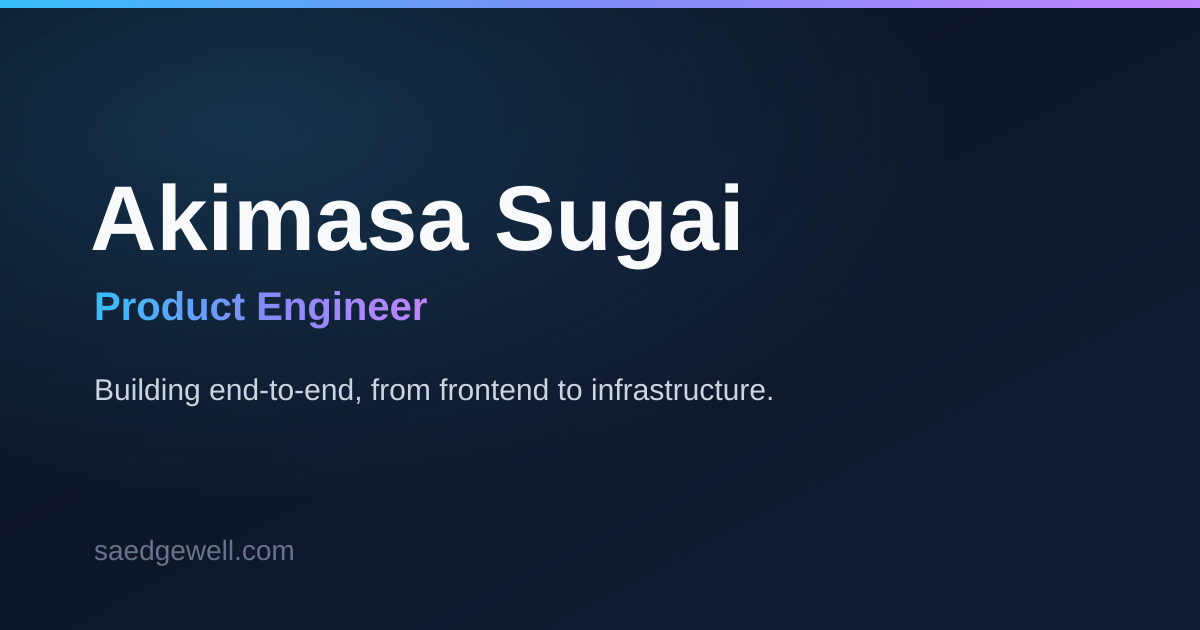
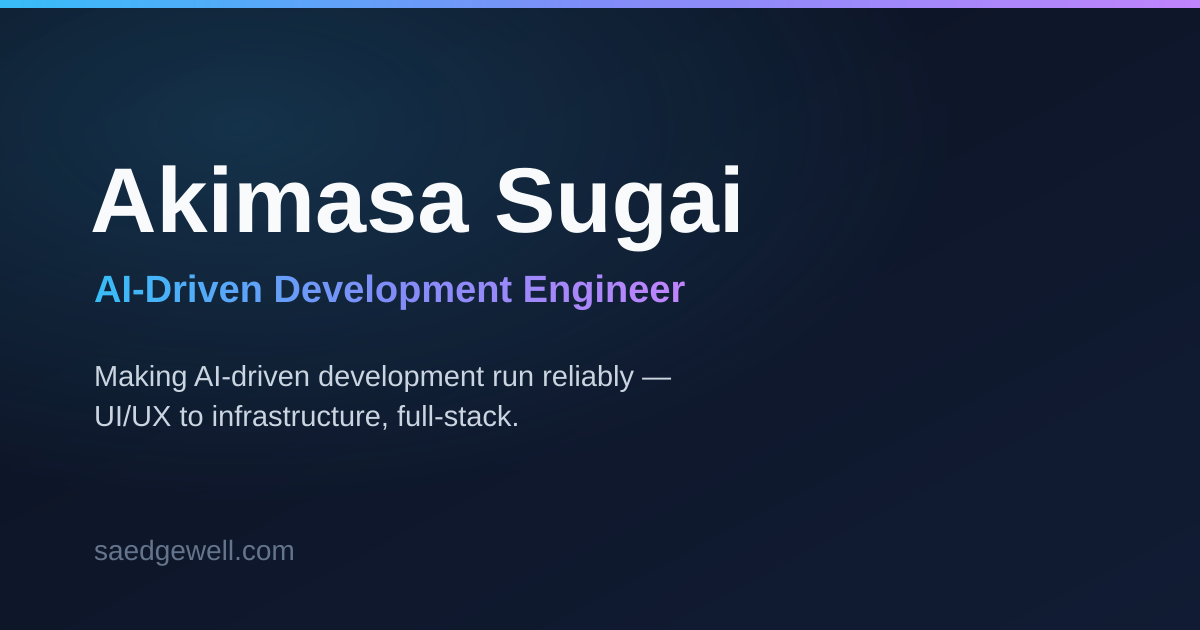
キャッチフレーズをAI駆動開発軸へ刷新（方向A）
- Hero見出し「AIと共に、止まらない開発を。」＋AI-DLC/UI-UX/フルスタックを示すサブタイトルに変更(ja/en)
- 肩書きを Product Engineer → AI-Driven Development Engineer に変更
  (profile.role / JSON-LD jobTitle / about表示)
- profile.headline・aboutメタ・metaキーワードをAI駆動開発軸に更新
- OG画像を新ポジションに合わせて再生成

Changed region(s): [[0.0617, 0.2413, 0.6167, 0.5429], [0.0617, 0.573, 0.6475, 0.6937]]

diff --git a/src/data/homepage.ja.ts b/src/data/homepage.ja.ts
@@ -1,12 +1,12 @@
 export const homepageJa = {
   hero: {
     title: {
-      part1: '最小のリソースから',
-      highlight: '最大の価値',
-      part2: 'を生み出す',
+      part1: 'AIと共に、',
+      highlight: '止まらない開発',
+      part2: 'を。',
     },
     subtitle:
-      'フロントエンドからバックエンド・インフラまで一貫して開発する、プロダクトエンジニアです。',
+      'AI駆動開発（AI-DLC）の導入・定着支援から、UI/UX設計を含むフルスタック開発まで。AIを"安定して動かす"エンジニアです。',
     ctaPrimary: '実績を見る',
     ctaSecondary: 'プロフィール',
   },

diff --git a/src/data/profile.ts b/src/data/profile.ts
@@ -49,9 +49,9 @@ export const profile = {
     ja: '菅井 瑛正',
     en: 'Akimasa Sugai',
   },
-  role: 'Product Engineer',
+  role: 'AI-Driven Development Engineer',
   headline:
-    'プロダクトエンジニアとして、モダンな技術を活用したWeb開発に携わっています。',
+    'AI駆動開発の導入支援とAIを活用した開発を軸に、UI/UXからインフラまで幅広く手がけるエンジニアです。',
   bioShort:
     'フロントエンドからバックエンド、インフラまで幅広い技術スタックを活用し、ビジネスの成長に貢献するソリューションを提供しています。',
   bioLong:

diff --git a/src/data/homepage.en.ts b/src/data/homepage.en.ts
@@ -3,12 +3,12 @@ import type { HomepageCopy } from './homepage';
 export const homepageEn: HomepageCopy = {
   hero: {
     title: {
-      part1: 'Creating ',
-      highlight: 'maximum value',
-      part2: ' from minimal resources',
+      part1: 'Building with AI,',
+      highlight: 'unstoppable',
+      part2: ' development.',
     },
     subtitle:
-      'A product engineer building end-to-end, from frontend to backend and infrastructure.',
+      'From adopting and operationalizing AI-driven development (AI-DLC) to full-stack delivery including UI/UX — an engineer who makes AI run reliably.',
     ctaPrimary: 'View works',
     ctaSecondary: 'About me',
   },
